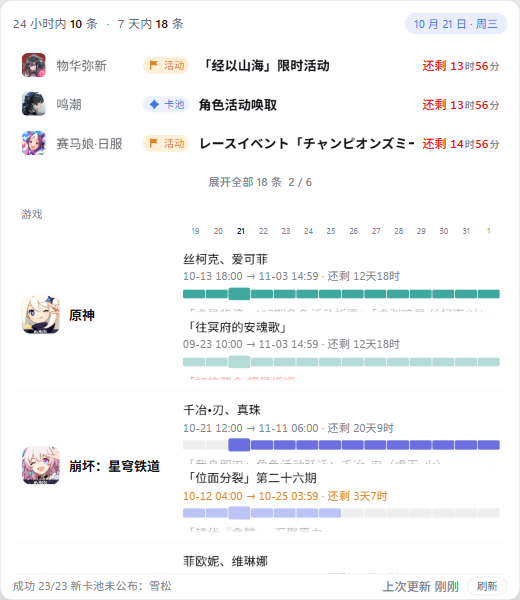
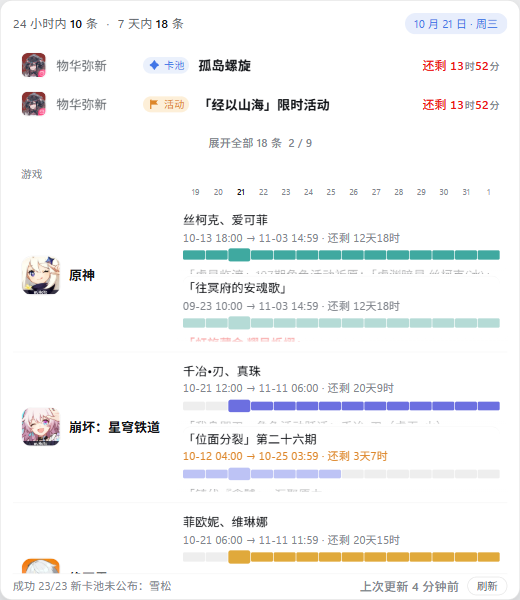
feat(panel): v0.2.14 近期默认 2 条 + 留白卡改左右布局
**① 「近期」默认最多显示 2 条**（原 3 条）
- 组件 `nearLimit` 默认值 10 → 2；`panel.js` 统一传 2（两个宿主一致）
- 仍每 4s 轮换一批（18 条 = 9 批），「展开全部」可看全
- popup 首屏实测：概览 + 近期 2 条 + **2 个完整游戏行** + 底栏；表格起点 240 → 201px

**② 留白卡（SlotCard）改左右布局**
- 原来：图标居中在上、四行文字居中在下
- 现在：`.gacha-cal-slot-slide` 改 grid（`auto 1fr`）——进度环/图标跨四行居左，
  游戏名 / 剩余天数 / 标题 / 档期四行左对齐在右
- 卡片高度 **401 → 302px**；下方「接下来三条」仍为整行列表
- 环与图标尺寸保留（132 / 86），实测 side-by-side 判据成立（文字左边 222 > 图标右边 208）

**校验**
- popup：520×600、近期 2 条、2 个完整行、底栏可见
- 留白卡：460×302、左右布局判据通过
- 全链通过；zip 19 条目 CRC 通过
README / README_Dev / PUBLISHING 已同步；新增 `assets/panel-slot.png`，更新 `assets/panel-popup.png`。

diff --git a/src/schedule/schedule.css b/src/schedule/schedule.css
@@ -680,3 +680,65 @@
 .gacha-cal-sched-trow--stacked .gacha-cal-sched-rest .gacha-cal-sched-tl i {
 	animation: none !important;
 }
+/* ── 留白卡：改成「左图标 / 右文字」的左右布局 ────────────────────────────
+   原版是上下结构：环+图标居中在上，游戏名 / 剩余天数 / 标题 / 档期依次居中排在下面。
+   左右布局把图标固定到左侧、四项文字右对齐排成四行，卡片更矮更宽，也更像"信息卡"。 */
+.gacha-cal-slot-slide {
+	display: grid;
+	grid-template-columns: auto minmax(0, 1fr);
+	grid-template-rows: auto auto auto auto;
+	column-gap: 14px;
+	align-items: center;
+	justify-items: start;
+}
+/* 图标 + 进度环整体跨四行，垂直居中 */
+.gacha-cal-slot-ring {
+	grid-column: 1;
+	grid-row: 1 / span 4;
+	align-self: center;
+}
+/* 环稍微收小，给右侧文字留宽度 */
+.gacha-cal-slot-ring > svg {
+	width: 104px;
+	height: 104px;
+}
+.gacha-cal-slot-ic > img,
+.gacha-cal-slot-ic > span {
+	width: 68px !important;
+	height: 68px !important;
+}
+/* 右侧四行：全部左对齐 */
+.gacha-cal-slot-gn {
+	grid-column: 2;
+	grid-row: 1;
+	margin-top: 0;
+	width: 100%;
+	text-align: left;
+	font-size: 14px;
+}
+.gacha-cal-slot-days {
+	grid-column: 2;
+	grid-row: 2;
+	justify-content: flex-start;
+	margin-top: 3px;
+}
+.gacha-cal-slot-ttl {
+	grid-column: 2;
+	grid-row: 3;
+	width: 100%;
+	margin-top: 5px;
+	text-align: left;
+	white-space: normal;
+}
+.gacha-cal-slot-sub {
+	grid-column: 2;
+	grid-row: 4;
+	width: 100%;
+	margin-top: 3px;
+	text-align: left;
+	white-space: normal;
+}
+/* 后面那条"接下来三条"仍留在下方整行（它们是列表，不适合塞进右列） */
+.gacha-cal-slot-more {
+	margin-top: 10px;
+}

diff --git a/src/schedule/schedule-view.js b/src/schedule/schedule-view.js
@@ -810,8 +810,8 @@ function ScheduleView({ games, now, s, colorMap, refreshing, onRefresh, lastRefr
 	// 「近期」默认只列前 10 条（已按紧迫度排序），其余靠每 4 秒换一批（取模环绕）循环看到；
 	// 底部按钮「展开全部 N 条」= React state（nearAll），展开时列全部并停住循环，再点击是「收起」。
 	// ——面板里**没有**「还有 N 条」这个文案，也不再走纯 CSS 的 checkbox。
-	// 「近期」每批显示几条。默认 10（上游行为）；popup 里传 3 —— 600px 高度下要给游戏表留空间。
-	const SCHEDULE_NEAR_LIMIT = Number.isFinite(nearLimit) && nearLimit > 0 ? Math.floor(nearLimit) : 10;
+	// 「近期」每批显示几条（默认最多 2 条；展开后仍可看全部，其余靠 4s 轮换）。
+	const SCHEDULE_NEAR_LIMIT = Number.isFinite(nearLimit) && nearLimit > 0 ? Math.floor(nearLimit) : 2;
 	const scheduleNear = (x) => (x.state === "wait"
 		? x.startTs != null && x.startTs - now.getTime() <= SCHEDULE_NEAR_MS
 		: x.state === "live" && x.remain <= SCHEDULE_NEAR_MS);

diff --git a/src/panel.js b/src/panel.js
@@ -21,8 +21,8 @@ const engine = createEngine({ transport, storage: createStorage() });
 
 // 宿主形态：工具栏 popup（520×600）或独立页面（宽、不限高）。
 // popup 里高度只有 600px，「近期」每批只显示 3 条，给下面的游戏表留空间。
-const IS_POPUP = document.body.classList.contains("popup-host");
-const NEAR_LIMIT = IS_POPUP ? 3 : 10;
+// 「近期」默认最多显示 2 条（展开后仍可看全部）。
+const NEAR_LIMIT = 2;
 const DEFAULT_REFRESH_MINUTES = 24 * 60;
 
 const state = {

diff --git a/README.md b/README.md
@@ -100,13 +100,14 @@ Chrome / Edge 通用（Manifest V3）。
 
 - **总览行**：24 小时内 / 7 天内的条目数，右侧日期胶囊
 - **顶部区域（可切换）**：设置页「顶部区域」可二选一 ——
-  - **近期列表**（默认）：按紧迫度排序的在期条目，每 4 秒轮换一批，可「展开全部」
-  - **留白卡**：当前最紧迫那一条的大卡片（大图标 + 进度环 + 剩余天数 + 后续几条）
+  - **近期列表**（默认）：按紧迫度排序的在期条目，**默认最多显示 2 条**，
+    每 4 秒轮换一批，可「展开全部」
+  - **留白卡**：当前最紧迫那一条的大卡片（**左图标 / 右文字**，另列后续几条）
 - **日程表**：每款游戏**两行**——第一行卡池、第二行活动，各自带起止时间、
   倒计时与 **14 天迷你进度条**；左侧游戏名跨两行
 - **失败横条**：某来源抓不到时集中在底部提示，可一键重试
 
-面板弹出后首屏是「概览 + 近期 3 条 + 2 个完整游戏行」，向下滚动看全部 23 款
+面板弹出后首屏是「概览 + 近期 2 条 + 2 个完整游戏行」，向下滚动看全部 23 款
 （整表约 4000px）。**默认关闭**；关闭时行为与之前完全一致，仍是原来的小面板。
 
 <p align="center">

diff --git a/README_Dev.md b/README_Dev.md
@@ -169,8 +169,11 @@ npm run test:domains       # 测守卫自身：该失败时失败、该通过时
 | `popup-panel.html` | 520 × 600（popup 硬上限 800×600） | **工具栏弹窗（默认）**：高度固定 ⇒ `.gacha-cal-sched-body` 内部滚动、底栏常驻 |
 | `panel.html` | 520 × 不定高 | 独立页面（需要大画布时用，如截图/调试） |
 
-`panel.js` 通过 `body.popup-host` 判断宿主：popup 下把「近期」每批从 10 条收窄到 **3 条**
-（`nearLimit`），给下面的游戏表留出空间 —— 实测首屏可见「概览 + 近期 3 条 + 2 个完整游戏行 + 底栏」。
+`panel.js` 通过 `body.popup-host` 判断宿主；「近期」默认最多显示 **2 条**（`nearLimit: 2`，
+展开后仍可看全部、其余靠 4s 轮换）—— 实测 popup 首屏可见「概览 + 近期 2 条 + 2 个完整游戏行 + 底栏」。
+
+留白卡（`SlotCard`）的版式也改成了**左右结构**：进度环 + 图标在左、四行文字（游戏名 / 剩余天数 /
+标题 / 档期）在右，卡片高度 401 → 302px。
 开启开关时 `background.js` 只切换 `chrome.action` 的 popup，不再打开标签页；关闭时恢复原 popup。
 
 > ⚠ **要改新面板，请先改上游插件再重新移植**，不要在 `schedule-view.js` 里直接改，

diff --git a/store/PUBLISHING.md b/store/PUBLISHING.md
@@ -262,6 +262,7 @@ Partner Center → **Analytics** 页有三个标签：`Weekly users` / `Installs
 | **0.2.11（探头回补）** | 恢复「可展开」虚影提示与滑动展开动画（保留层级/对齐修复） |
 | **0.2.12（去掉行首指示）** | 去掉每行「卡池/活动」指示，行高 93→75px |
 | **0.2.13（popup 化）** | 新面板改为工具栏 popup（520×600，内部滚动），不再开标签页 |
+| **0.2.14（密度微调）** | 近期默认最多 2 条；留白卡改左右布局（高 401→302） |
 | 商店文案补更新 | ✅ **已过审生效**（zh 643 / en 1728 字符，已不再列举 Bestdori） |
 
 > 0.2.6 涉及**新增 3 个主机权限**（`gametora.com`、`gh-proxy.com`、
